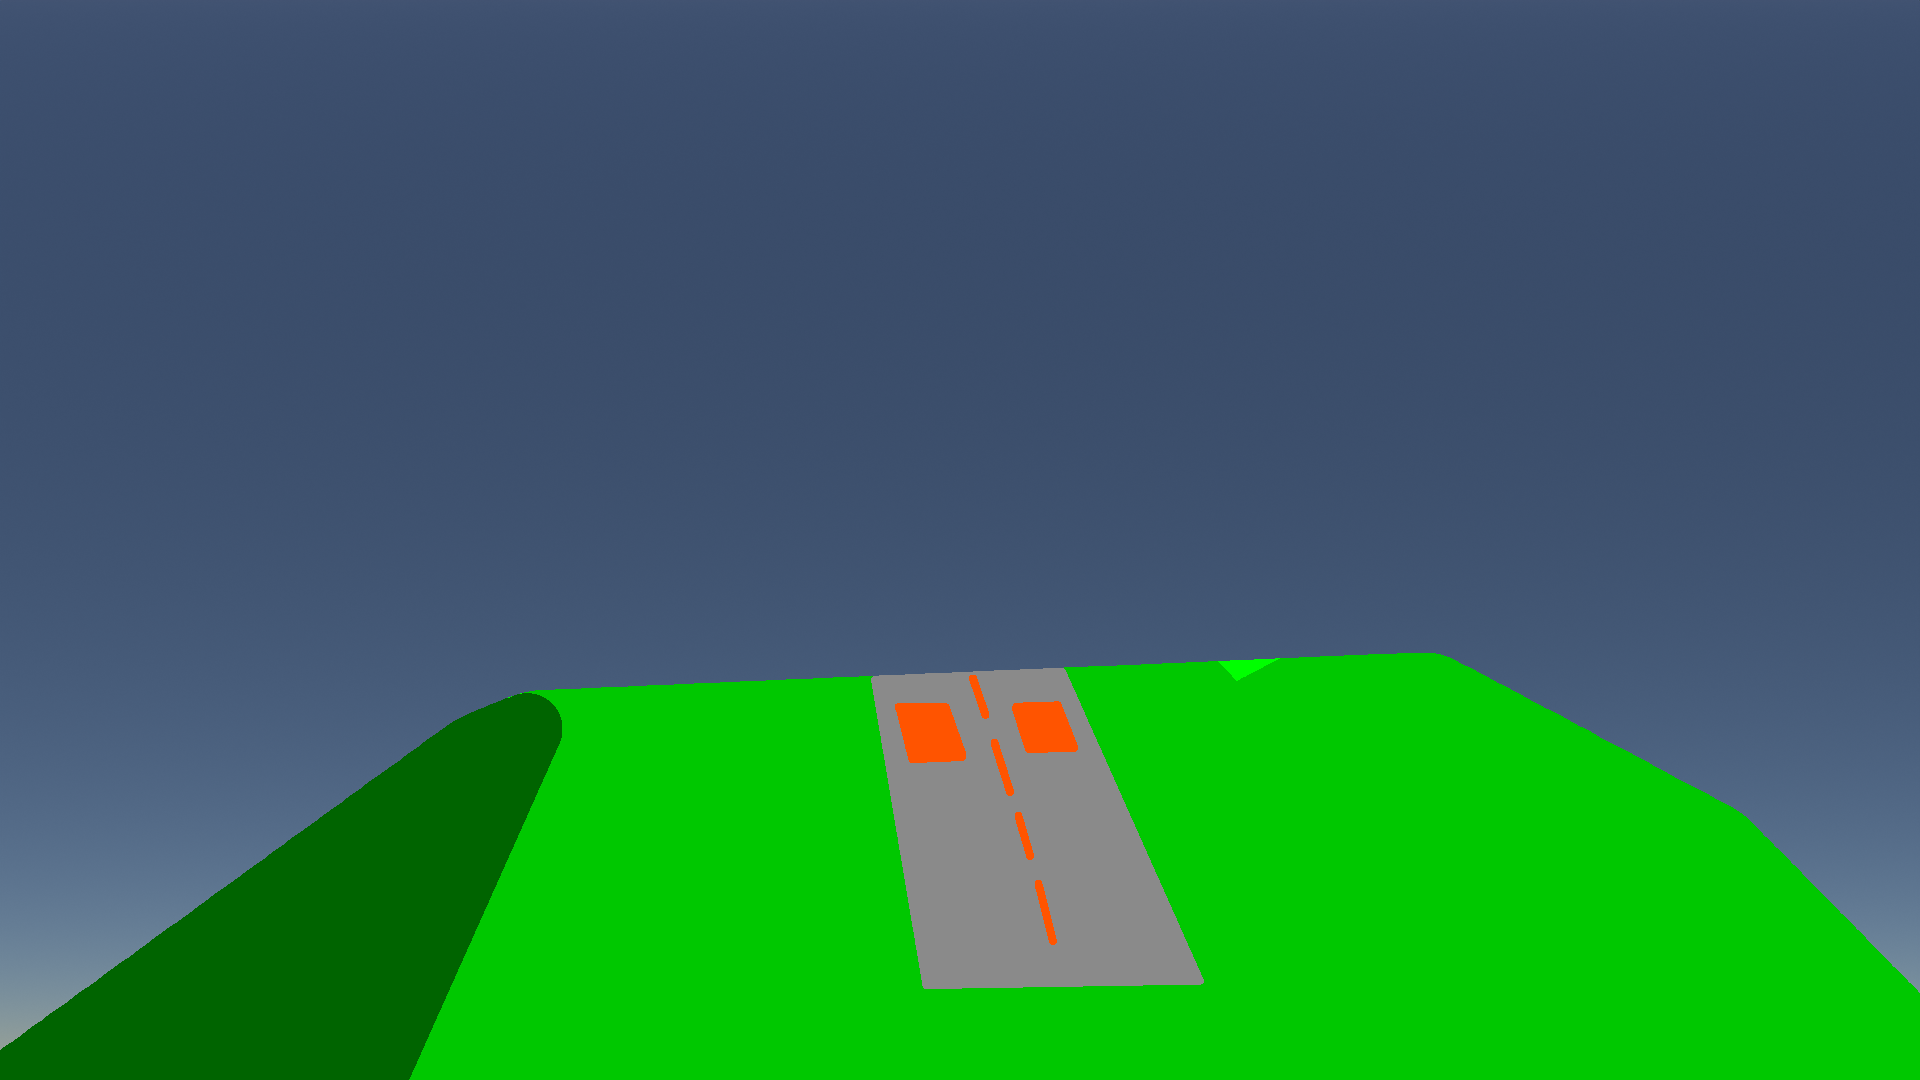
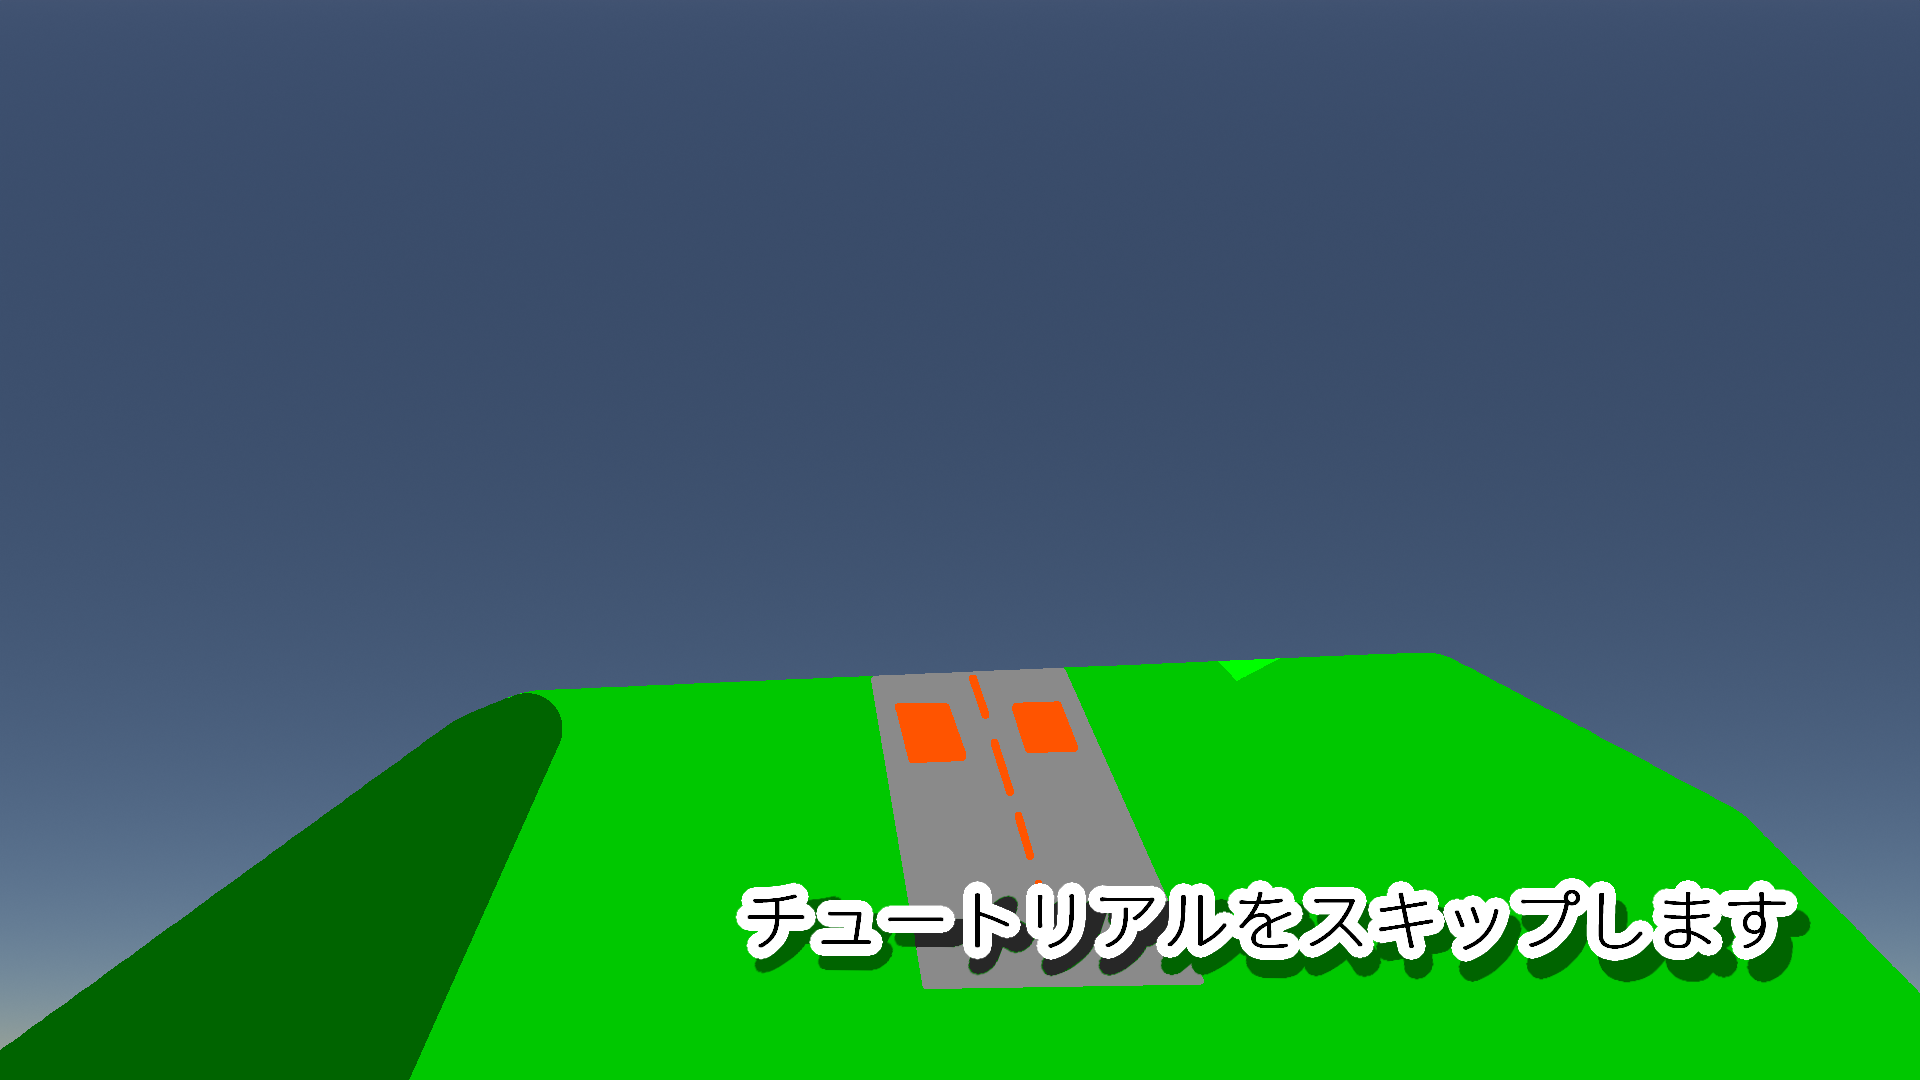
✨チュートリアルチェックシーン充実

Changed region(s): [[0.375, 0.7944, 0.9375, 0.9167]]

diff --git a/Source/CheckTutorialScene/SkipChecker.cpp b/Source/CheckTutorialScene/SkipChecker.cpp
@@ -1,0 +1,35 @@
+#include "SkipChecker.h"
+#include "CheckTutorialScene.h"
+
+namespace
+{
+	const float MOVE_RATE{ 0.01f };
+}
+
+SkipChecker::SkipChecker() : GameObject(GameObjectBuilder()
+	.Build()),
+	rate_{ 0.0f }
+{
+}
+
+SkipChecker::~SkipChecker()
+{
+}
+
+void SkipChecker::Update()
+{
+	if (InputUtil::GetAxis(Axis::Y, WindowContext::Both) < 0 && InputUtil::GetAxis(Axis::Y, WindowContext::Both) < 0)
+	{
+		rate_ = Mathf::Lerp(rate_, 1.0f, MOVE_RATE);
+	}
+	else
+	{
+		rate_ = Mathf::Lerp(rate_, 0.0f, MOVE_RATE);
+	}
+
+	GetScene<CheckTutorialScene>().SetPeekRate(rate_);
+}
+
+void SkipChecker::Draw()
+{
+}

diff --git a/Source/CheckTutorialScene/SkipChecker.h b/Source/CheckTutorialScene/SkipChecker.h
@@ -1,0 +1,16 @@
+#pragma once
+#include <mtgb.h>
+
+class SkipChecker : public GameObject
+{
+public:
+	SkipChecker();
+	~SkipChecker();
+
+	void Update();
+	void Draw();
+
+private:
+	float rate_;
+};
+
